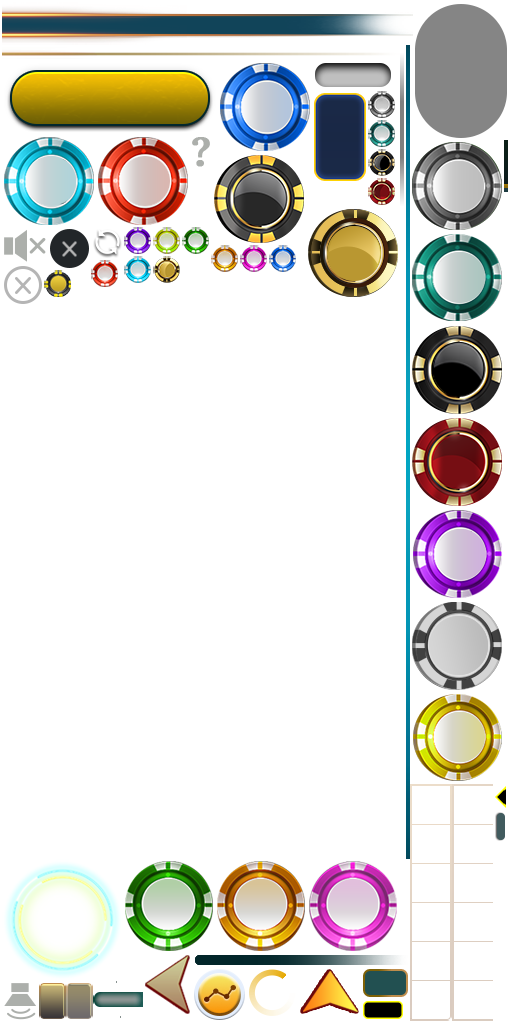
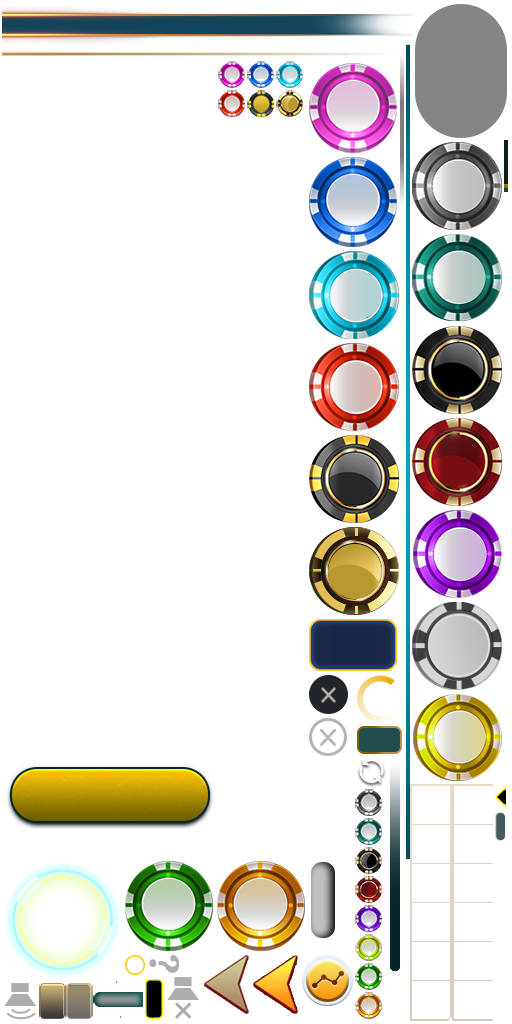
add images for instant RongHo

Changed region(s): [[0.0, 0.0625, 0.8125, 1.0], [0.0, 0.75, 0.4375, 0.8125]]

diff --git a/0_texturepacker/pack-resources.py b/0_texturepacker/pack-resources.py
@@ -8,7 +8,7 @@ if __name__ == '__main__':
     current_dir = os.path.dirname(os.path.realpath(__file__))
     project_dir = os.path.join(current_dir, '..')
 
-    images_dir = '1_instant_client/rong-ho'
+    images_dir = '1_instant_client/common'
 
     # Pack.
     packer_path = os.path.join(
